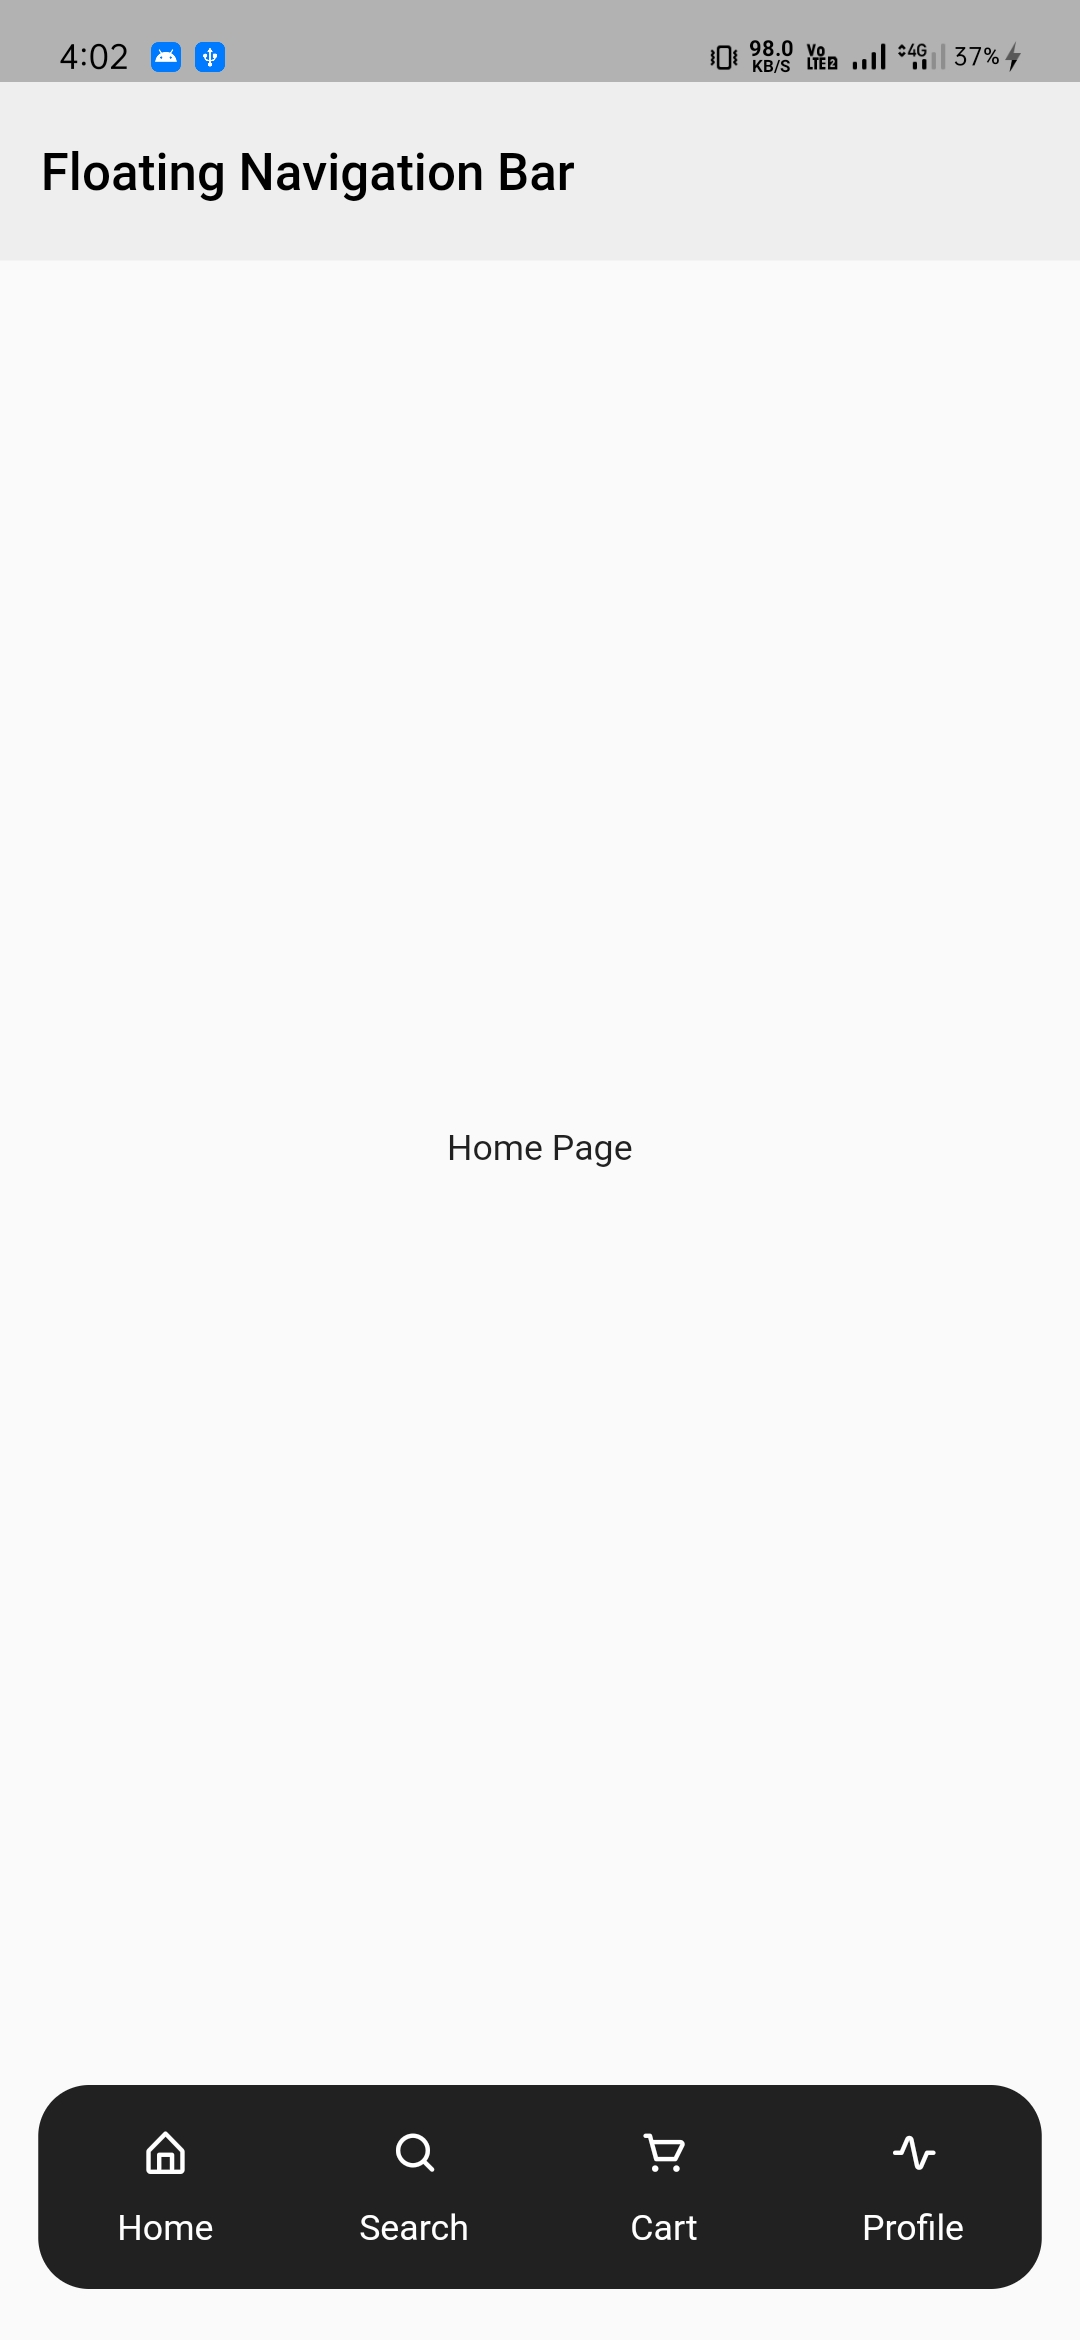
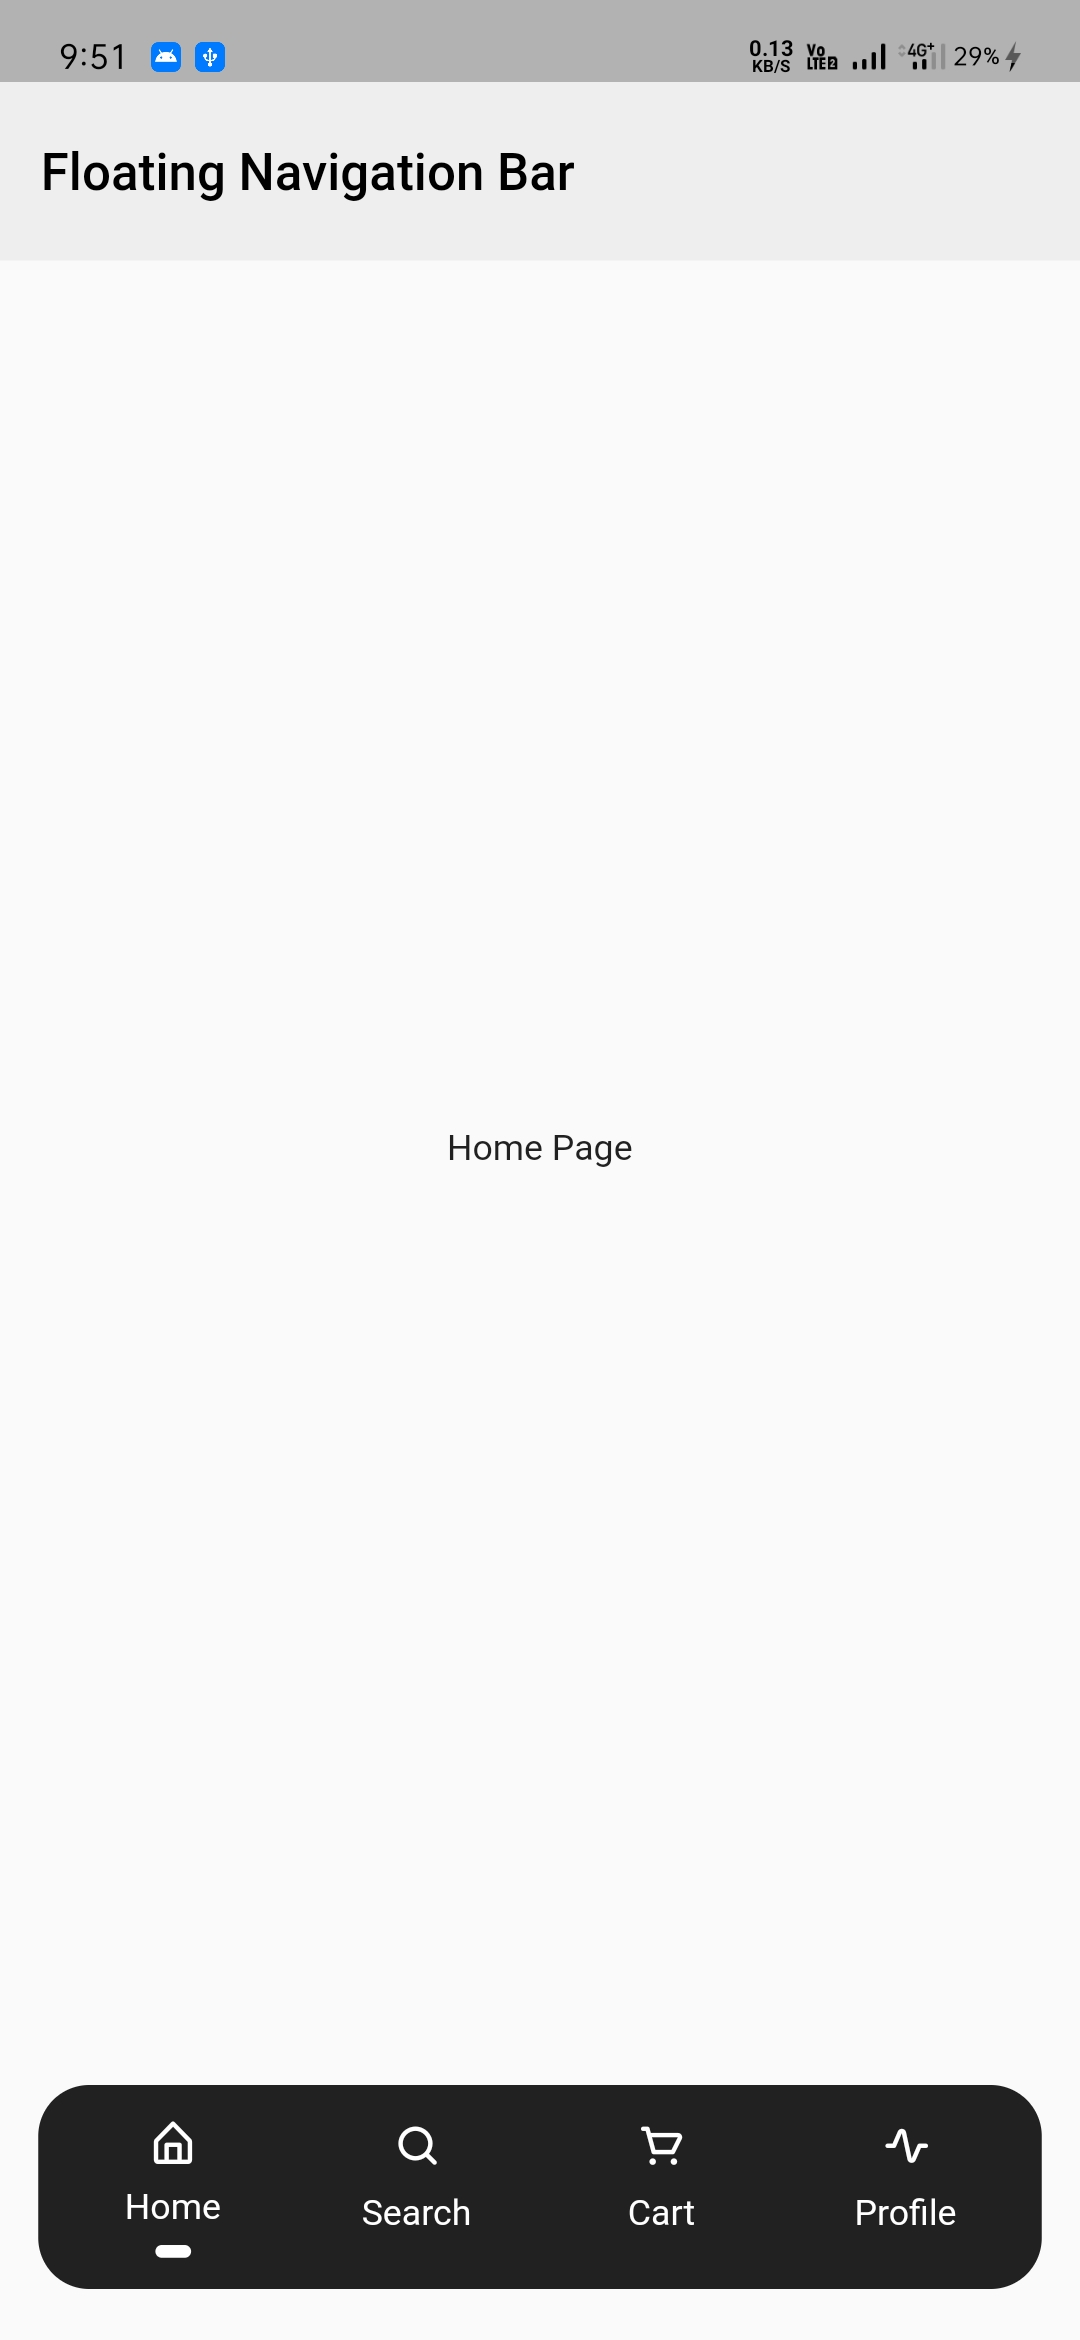
Indicator for tabs

diff --git a/lib/src/floating_navigation_bar.dart b/lib/src/floating_navigation_bar.dart
@@ -2,14 +2,40 @@ import 'package:floating_navigation_bar/src/nav_bar_items.dart';
 import 'package:flutter/material.dart';
 
 class FloatingNavigationBar extends StatelessWidget {
+  /// * TO CHANGE THE HEIGHT OF NAVIGATION BAR
+  /// * PREFERRED HEIGHT IS BETWEEN [80-100]
   final double barHeight;
+
+  /// * TO CHANGE THE WIDTH OF NAVIGATION BAR
   final double? barWidth;
+
+  /// * FOR CHANGING NAV ITEMS ICON SIZE
   final double? iconSize;
+
+  /// * For changing nav items icon color
   final Color? iconColor;
+
+  /// * Background Color or floating navigation bar
   final Color? backgroundColor;
+
+  //
   final TextStyle? textStyle;
+
+  /// * List to tabs to display
   final List<NavBarItems> items;
+
   final ValueChanged<int> onChanged;
+
+  /// * For Changing indicator color
+  /// * ... height
+  /// * ... width
+  final Color indicatorColor;
+  final double indicatorHeight;
+  final double indicatorWidth;
+
+  /// ! THIS WILL IDENTITFY WHICH TAB IS CURRENTLY ACTIVE
+  /// ! USING THIS TO SHOW AND HIDE TAB INDICATOR
+  static ValueNotifier<int> notifyIndex = ValueNotifier<int>(0);
 
   const FloatingNavigationBar({
     Key? key,
@@ -21,6 +47,9 @@ class FloatingNavigationBar extends StatelessWidget {
     this.iconSize,
     this.textStyle,
     this.backgroundColor,
+    this.indicatorColor = Colors.black,
+    this.indicatorHeight = 5.0,
+    this.indicatorWidth = 8.0,
   })  : assert(
           (items.length < 5),
           "NavBarItems can't contain more than 4 itmes",
@@ -28,6 +57,10 @@ class FloatingNavigationBar extends StatelessWidget {
         assert(
           barHeight <= 100,
           "\n******\nHeight should be less than or equal to 100\n******\n",
+        ),
+        assert(
+          indicatorWidth <= 15 || indicatorHeight <= 15,
+          "\n******\n Too much height given to tab indicator \n******\n",
         ),
         super(key: key);
 
@@ -46,7 +79,7 @@ class FloatingNavigationBar extends StatelessWidget {
         borderRadius: BorderRadius.circular(20.0),
       ),
       child: Row(
-        mainAxisAlignment: MainAxisAlignment.spaceBetween,
+        mainAxisAlignment: MainAxisAlignment.spaceAround,
         children: List.generate(
           items.length,
           (i) => GestureDetector(
@@ -68,6 +101,23 @@ class FloatingNavigationBar extends StatelessWidget {
                     maxLines: 1,
                     overflow: TextOverflow.ellipsis,
                   ),
+                  ValueListenableBuilder(
+                    valueListenable: notifyIndex,
+                    builder: (BuildContext context, int value, Widget? child) {
+                      return Visibility(
+                        visible: value == i,
+                        child: Container(
+                          height: indicatorHeight,
+                          width: indicatorWidth,
+                          padding: EdgeInsets.zero,
+                          decoration: BoxDecoration(
+                            borderRadius: BorderRadius.circular(5.0),
+                            color: indicatorColor,
+                          ),
+                        ),
+                      );
+                    },
+                  )
                 ],
               ),
             ),
@@ -77,7 +127,9 @@ class FloatingNavigationBar extends StatelessWidget {
     );
   }
 
+  /// * FOR CHANGING NAVIGATION BAR  INDEX
   void onPressed(int index) {
     onChanged(index);
+    notifyIndex.value = index;
   }
 }

diff --git a/example/lib/drawer.dart b/example/lib/drawer.dart
@@ -1,0 +1,63 @@
+import 'package:eva_icons_flutter/eva_icons_flutter.dart';
+import 'package:floating_navigation_bar/floating_navigation_bar.dart';
+import 'package:flutter/material.dart';
+
+class SideDrawer extends StatelessWidget {
+  static int currentIndex = 0;
+
+  static var pageList = <Widget>[
+    Center(
+      child: Text("Home Page"),
+    ),
+    Center(
+      child: Text("Feed Page"),
+    ),
+    Center(
+      child: Text("Cart Page"),
+    ),
+    Center(
+      child: Text("Profile Page"),
+    ),
+  ];
+  @override
+  Widget build(BuildContext context) {
+    return Drawer(
+      elevation: 0.0,
+      child: Container(
+        color: Colors.black87,
+        child: Column(
+          children: [
+            FloatingNavigationBar(
+              backgroundColor: Colors.black87,
+              iconColor: Colors.white,
+              textStyle: TextStyle(
+                color: Colors.white,
+                fontSize: 14.0,
+              ),
+              iconSize: 20.0,
+              items: [
+                NavBarItems(
+                  icon: EvaIcons.homeOutline,
+                  title: "Home",
+                ),
+                NavBarItems(
+                  icon: EvaIcons.search,
+                  title: "Search",
+                ),
+                NavBarItems(
+                  icon: EvaIcons.shoppingCartOutline,
+                  title: "Cart",
+                ),
+                NavBarItems(
+                  icon: EvaIcons.activity,
+                  title: "Profile",
+                ),
+              ],
+              onChanged: (_) {},
+            ),
+          ],
+        ),
+      ),
+    );
+  }
+}

diff --git a/example/lib/main.dart b/example/lib/main.dart
@@ -60,12 +60,17 @@ class _DemoScreenState extends State<DemoScreen> {
       body: pageList[currentIndex],
       bottomNavigationBar: FloatingNavigationBar(
         backgroundColor: Colors.black87,
+        barHeight: 80.0,
+        barWidth: MediaQuery.of(context).size.width - 40.0,
         iconColor: Colors.white,
         textStyle: TextStyle(
           color: Colors.white,
           fontSize: 14.0,
         ),
         iconSize: 20.0,
+        indicatorColor: Colors.white,
+        indicatorHeight: 5,
+        indicatorWidth: 14.0,
         items: [
           NavBarItems(
             icon: EvaIcons.homeOutline,

diff --git a/README.md b/README.md
@@ -1,6 +1,13 @@
-# ✨ Flutter Floating Navigation Bar
+#  Flutter Floating Navigation Bar
 
-## 🎮 EXAMPLE
+
+<img width="450" height="900" src="https://github.com/tailoristic/floating_navigation_bar/blob/master/example/images/fnb_crop.jpg?raw=true">
+<br/>
+:blue_heart:
+## ✨
+<img width="450" height="900" src="https://github.com/tailoristic/floating_navigation_bar/blob/master/example/images/floating_navigation_bar.jpg?raw=true">
+
+## ✨ EXAMPLE
 
 ```dart
       Scaffold(
@@ -36,8 +43,6 @@
 
 ```
 
-<!-- 
-<img width="450" height="900" src="https://github.com/tailoristic/floating_navigation_bar/blob/master/example/images/floating_navigation_bar.jpg?raw=true"> -->
 
 
 ## ⭐ License

diff --git a/CHANGELOG.md b/CHANGELOG.md
@@ -1,6 +1,9 @@
 ## 0.0.1
 
 * This is the initial release of Floating Navigation Bar.
-## 0.0.2
 
+## 0.0.2
 * Partial Migration to null safety
+
+## 0.0.3
+* Added Indicator for active tab.
